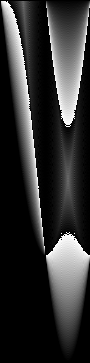
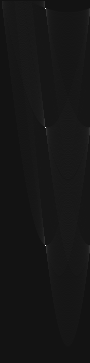
H is no looking better

diff --git a/ps2.py b/ps2.py
@@ -40,11 +40,12 @@ def hough_lines_acc(img_edges, rho_res=1, theta_res=pi/90):
     H = np.zeros((rho.size, theta.size), dtype=np.uint8)
     for y in range(height):
         for x in range(width):
-            for index,_theta in enumerate(theta):
-                _rho = x*np.cos(_theta) + y*np.sin(_theta)
-                rho_index = np.where(rho == int(_rho))
-                if rho_index[0]:
-                    H[rho_index[0][0],index] += 1
+            if img_edges[x,y] > 0:
+                for index,_theta in enumerate(theta):
+                    _rho = x*np.cos(_theta) + y*np.sin(_theta)
+                    rho_index = np.where(rho == int(_rho))
+                    if rho_index[0]:
+                        H[rho_index[0][0],index] += 1
 
 
     return H, rho, theta
@@ -89,7 +90,6 @@ def main():
     # TODO: Compute edge image (img_edges)
     img_edges = cv2.Canny(img,100,200)
     cv2.imwrite(os.path.join(output_dir, 'ps2-1-a-1.png'), img_edges)  # save as ps2-1-a-1.png
-    show_image(img_edges)
 
     # 2-a
     # Compute Hough Transform for lines on edge image
@@ -97,7 +97,8 @@ def main():
 
     # TODO: Store accumulator array (H) as ps2-2-a-1.png
     # Note: Write a normalized uint8 version, mapping min value to 0 and max to 255
-    show_image(H)
+    print np.matrix(H).max()
+    cv2.imwrite(os.path.join(output_dir, 'ps2-2-a-1.png'), H + (255-np.matrix(H).max()))
 
     # 2-b
     # Find peaks (local maxima) in accumulator array
